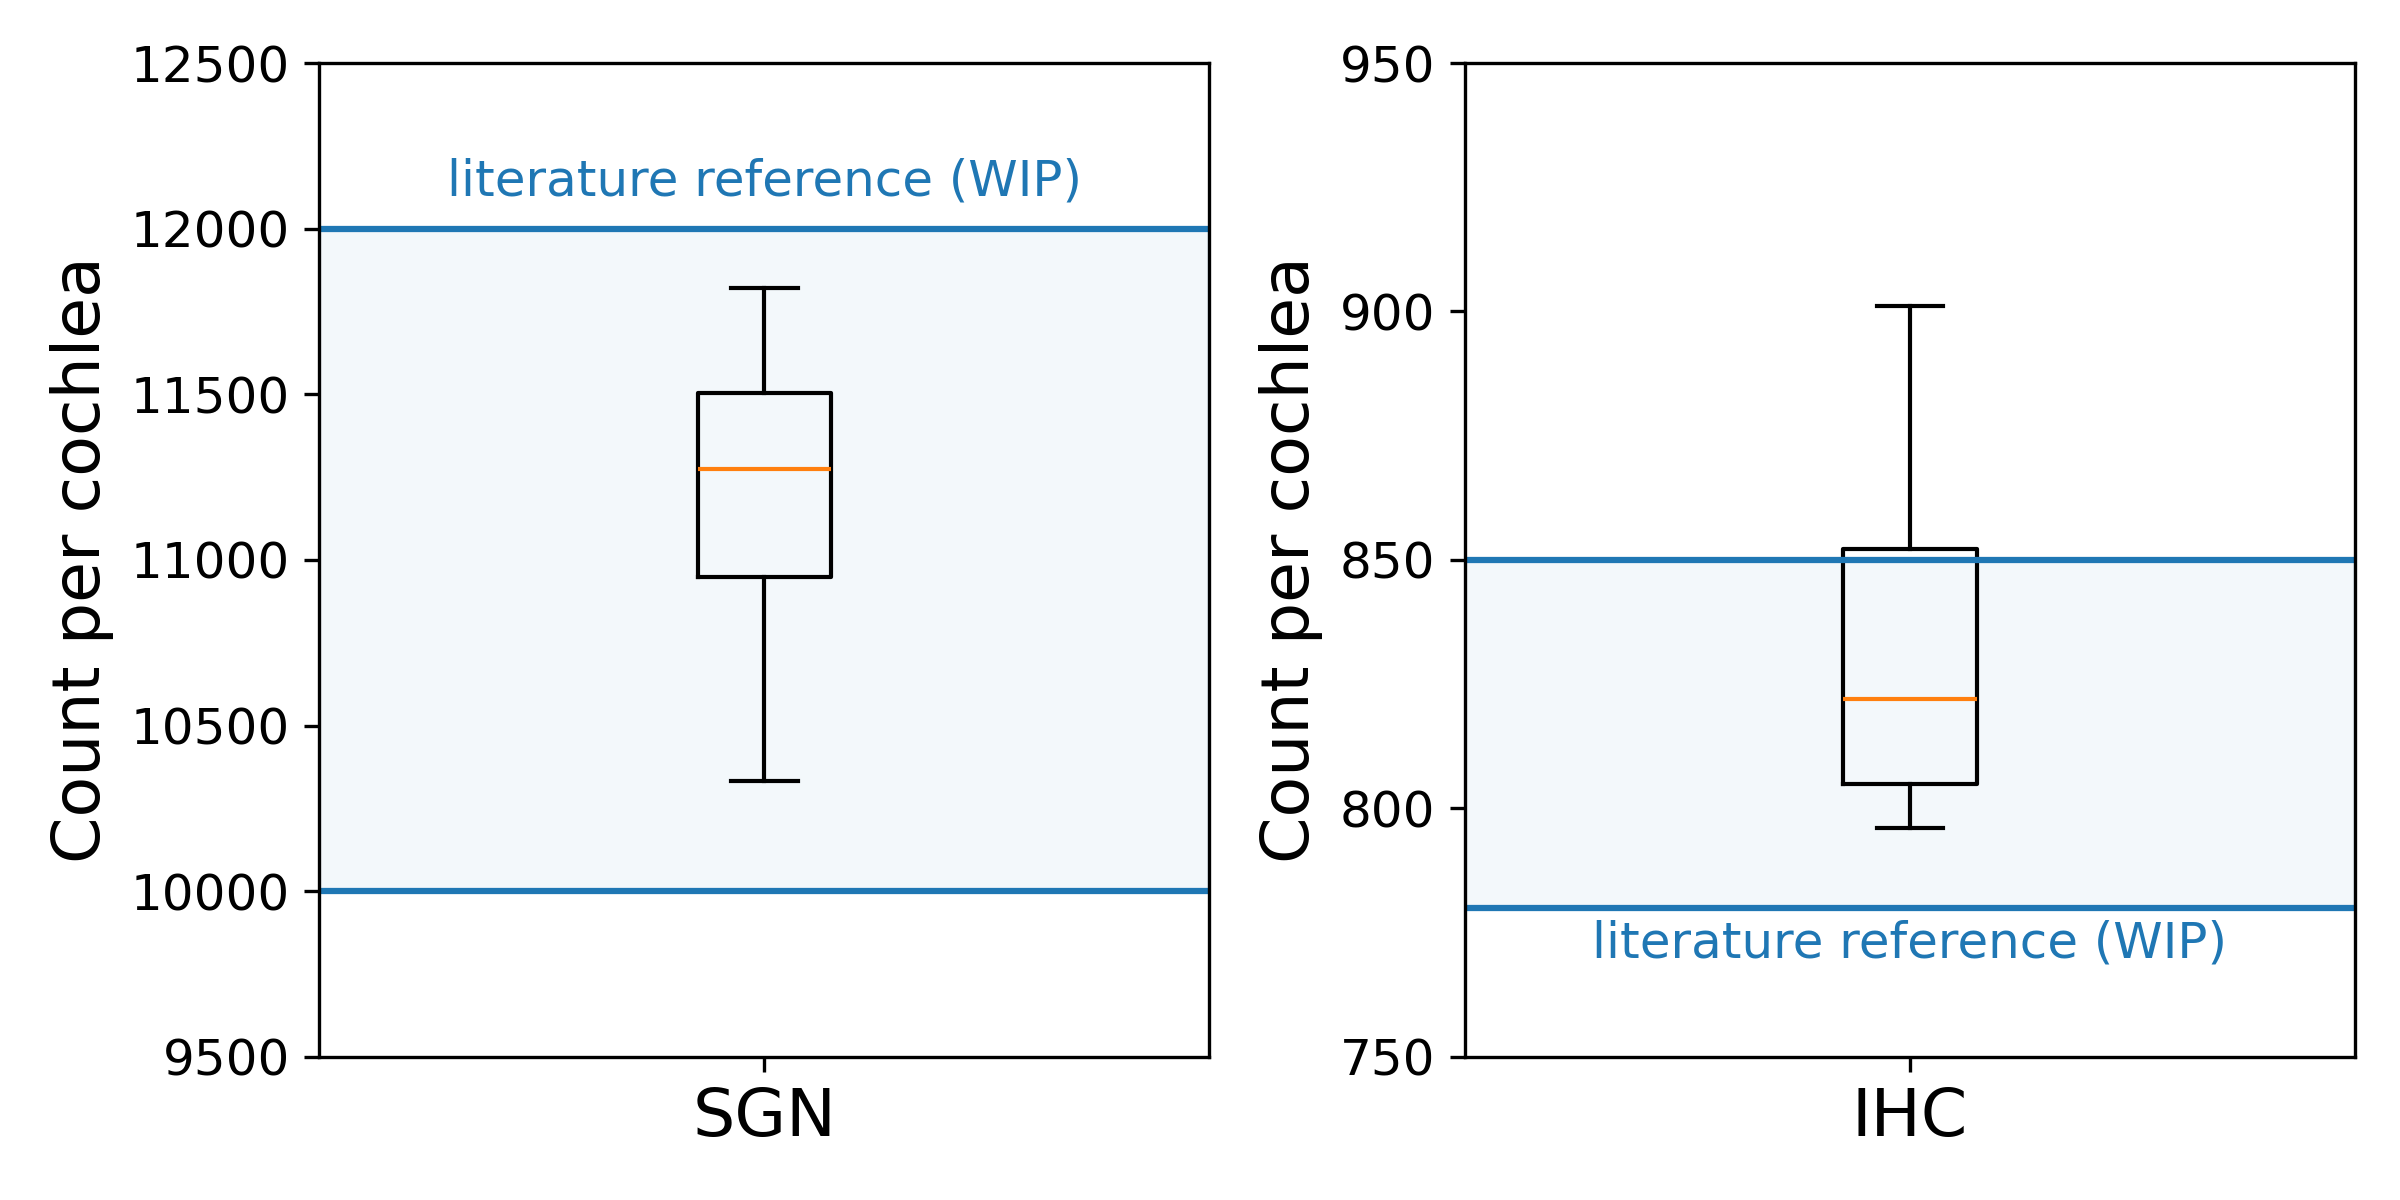
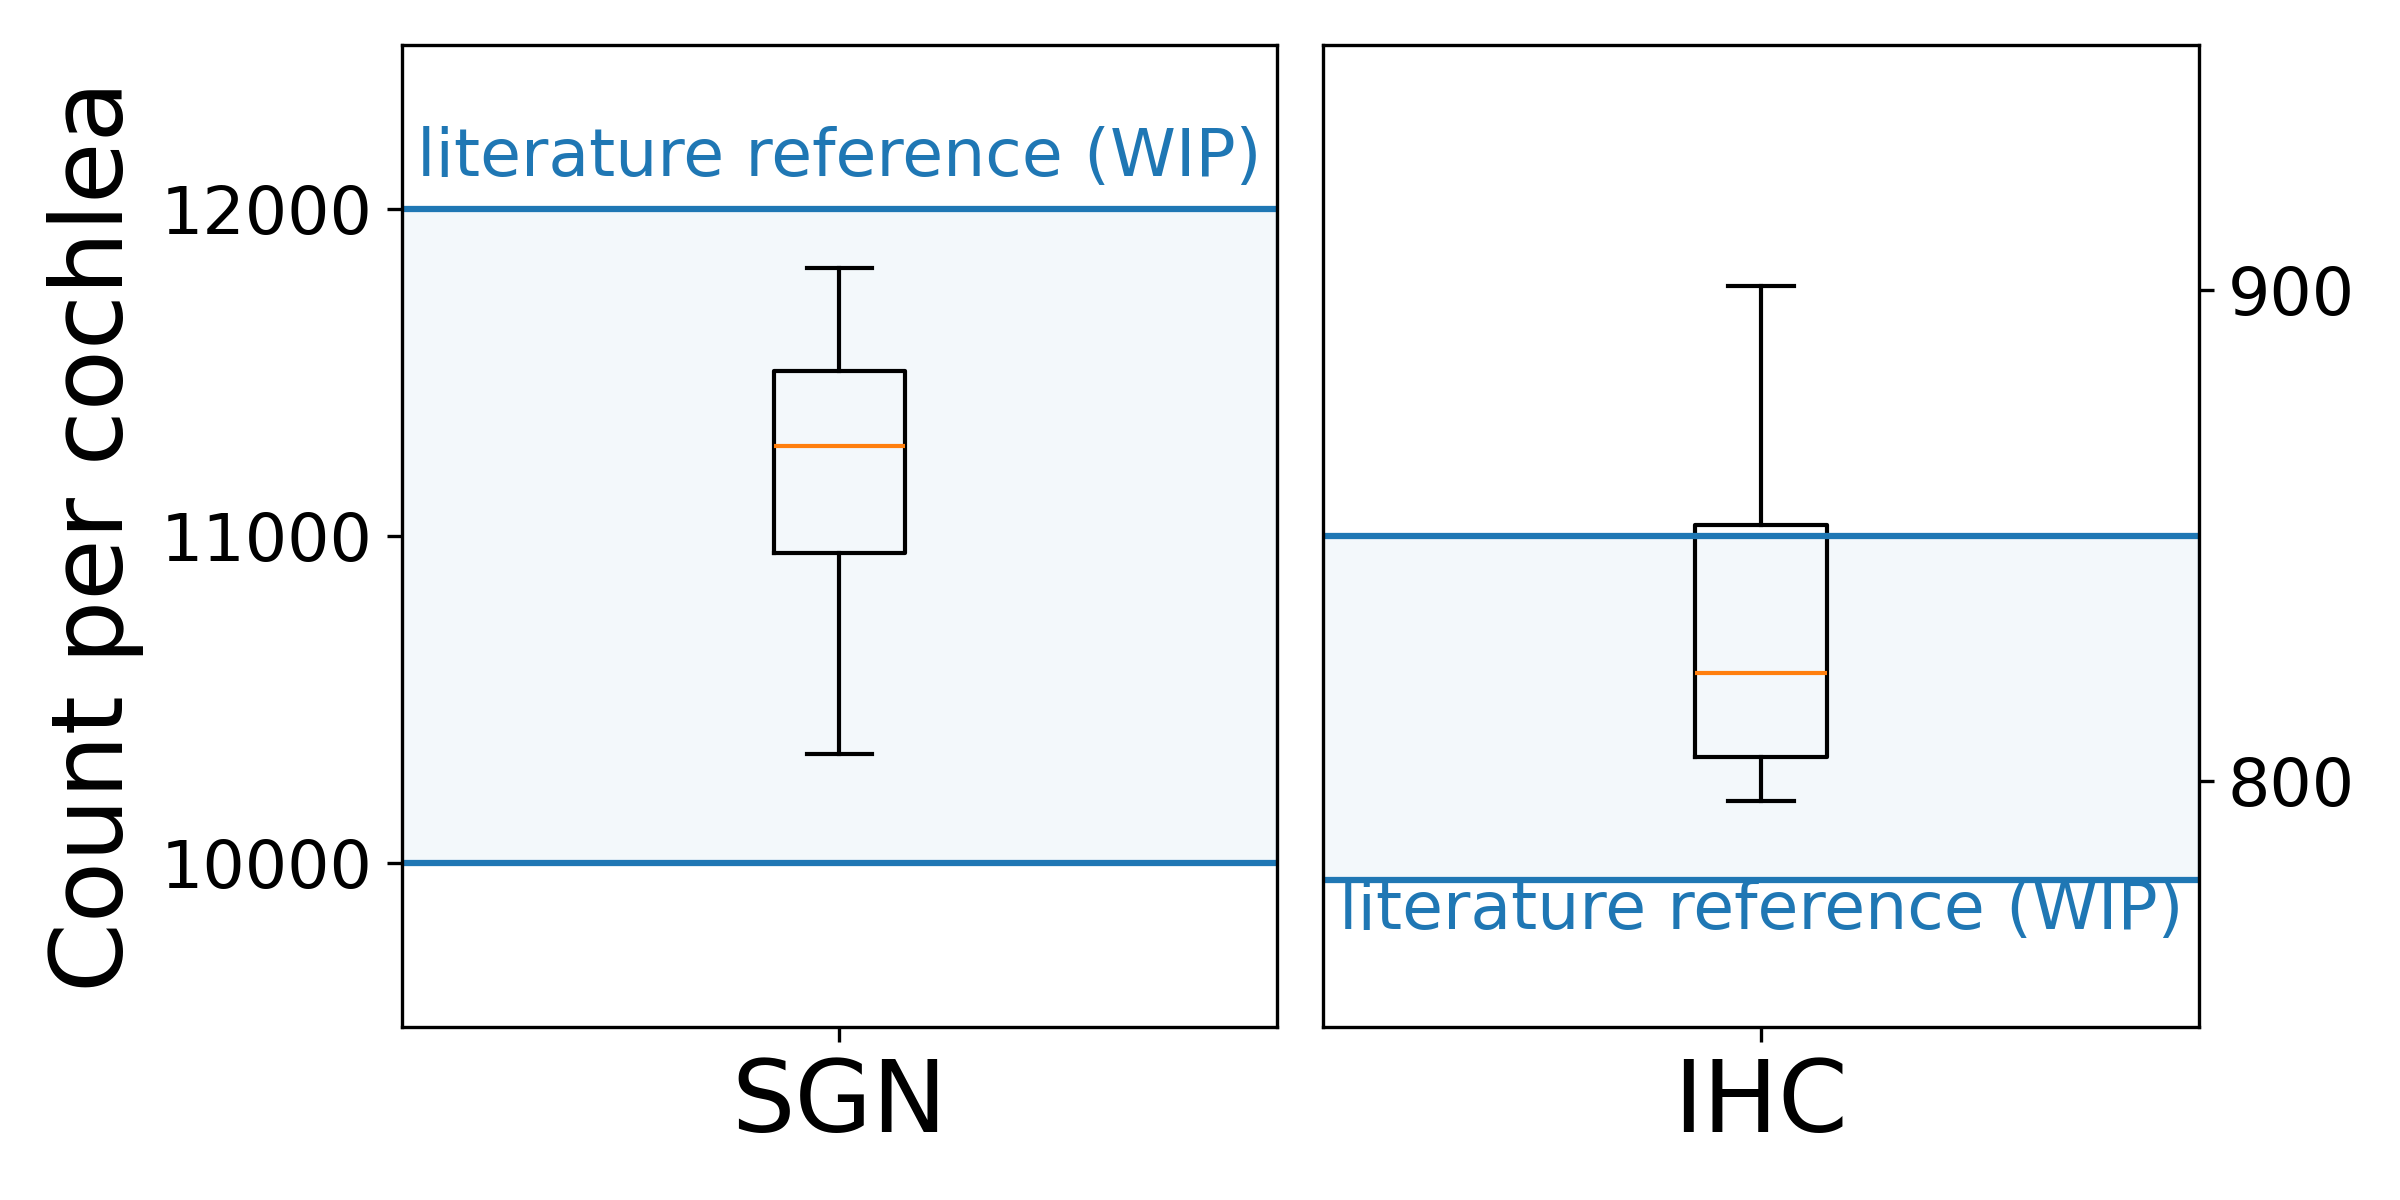
Updated Figure 2d_01

diff --git a/scripts/figures/plot_figures.py b/scripts/figures/plot_figures.py
@@ -61,8 +61,8 @@ def fig_02c(save_path, plot=False):
 def fig_02d_01(save_path, plot=False):
     """Box plot showing the counts for SGN and IHC per (mouse) cochlea in comparison to literature values.
     """
-    main_tick_size = 12
-    main_label_size = 16
+    main_tick_size = 16
+    main_label_size = 24
 
     rows = 1
     columns = 2
@@ -81,12 +81,13 @@ def fig_02d_01(save_path, plot=False):
 
     ylim0 = 9500
     ylim1 = 12500
-    y_ticks = [i for i in range(ylim0, ylim1 + 1, 500)]
+    y_ticks = [i for i in range(10000, 12000 + 1, 1000)]
 
     ax[0].set_ylabel('Count per cochlea', fontsize=main_label_size)
     ax[0].set_yticks(y_ticks)
     ax[0].set_yticklabels(y_ticks, rotation=0, fontsize=main_tick_size)
     ax[0].set_ylim(ylim0, ylim1)
+    ax[0].yaxis.set_ticks_position('left')
 
     # set range of literature values
     xmin = 0.5
@@ -100,14 +101,15 @@ def fig_02d_01(save_path, plot=False):
 
     ylim0 = 750
     ylim1 = 950
-    y_ticks = [i for i in range(ylim0, ylim1 + 1, 50)]
+    y_ticks = [i for i in range(800, 900 + 1, 100)]
 
     ax[1].set_xticklabels(["IHC"], fontsize=main_label_size)
 
-    ax[1].set_ylabel('Count per cochlea', fontsize=main_label_size)
     ax[1].set_yticks(y_ticks)
     ax[1].set_yticklabels(y_ticks, rotation=0, fontsize=main_tick_size)
     ax[1].set_ylim(ylim0, ylim1)
+    ax[1].yaxis.tick_right()
+    ax[1].yaxis.set_ticks_position('right')
 
     # set range of literature values
     xmin = 0.5
